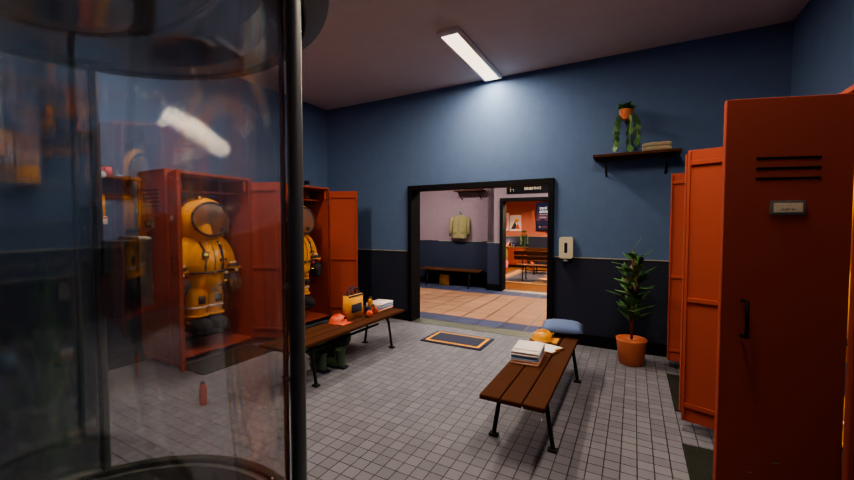
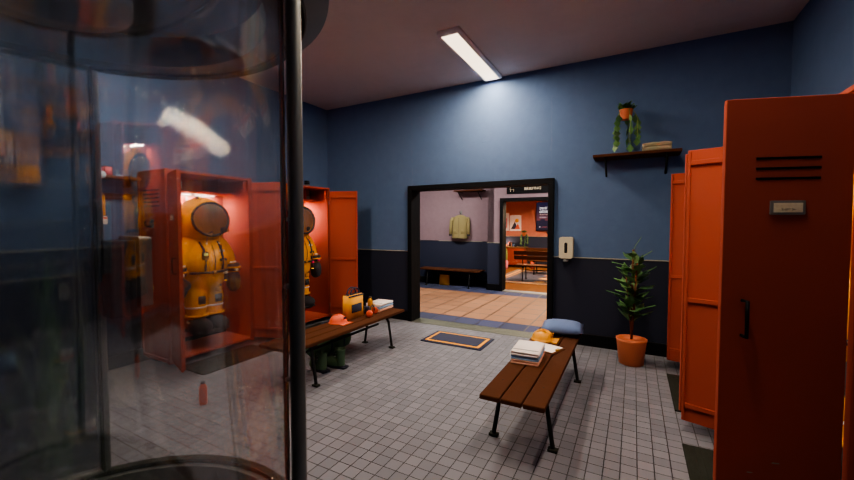
Spawn room: locker strip lights, neck cap on the hung suit, equip contract
Claude-Session: https://claude.ai/code/session_017ZYc5YVsgaxmMpnAsLGzAo

diff --git a/sections/spawn-room/blender/add_hero_suits.py b/sections/spawn-room/blender/add_hero_suits.py
@@ -31,6 +31,8 @@ OUT = sys.argv[sys.argv.index("--") + 1] if "--" in sys.argv else None
 ZO = 0.01                          # world z of each locker origin
 Y_BACK = 0.275                     # pack back plate sits just in front of the back panel (local y)
 ROOF = 1.985                       # highest point of the suit, under the rail / upper shelf
+STRIP_Y = 0.19                      # behind the hood so the visor does not mirror the strip
+LOCKER_LIGHT_W = float(os.environ.get("LOCKER_LIGHT_W", "40"))
 PLAYER_ACCENT = {1: "#3C7DDB", 2: "#4CAF50", 3: "#D6407F", 4: "#E8E2D0"}
 scene = bpy.context.scene
 COLS = [c for c in (bpy.data.collections.get("MODULE_spawn-room"), bpy.data.collections.get("PPE_STATIONS")) if c]
@@ -44,7 +46,7 @@ def kill(obj):
 
 
 def clear_old(n):
-    names = [o.name for o in bpy.data.objects if o.name.startswith(("PPE_0%d_suit" % n, "PPE_0%d_helmet" % n, "WORKER_0%d" % n))]
+    names = [o.name for o in bpy.data.objects if o.name.startswith(("PPE_0%d_suit" % n, "PPE_0%d_helmet" % n, "WORKER_0%d" % n, "PPE_0%d_locker_light" % n))]
     for pat in ("BELONG_0%d_jacket" % n, "BELONG_0%d_hanger_" % n, "BELONG_0%d_fold_" % n, "BELONG_0%d_bag" % n,
                 "BELONG_0%d_mid_shelf" % n, "PPE_0%d_work_boot" % n):
         names += [o.name for o in bpy.data.objects
@@ -97,6 +99,30 @@ def box_mesh(name, c, s, parent):
     return o
 
 
+def cap_neck(root):
+    """The skin is gone, so the suit body's neck stub shows through the empty visor: cut it and close the opening with a
+    dark inner cap (a seal ring seen from outside, a dark empty collar through the visor)."""
+    body = next(o for o in root.children_recursive if o.name.startswith("SUIT_BODY"))
+    dark = bpy.data.materials.get("COZY_#30323C_85_0_0")
+    bm = bmesh.new()
+    bm.from_mesh(body.data)
+    cut = [f for f in bm.faces if min(v.co.z for v in f.verts) > 1.20]
+    bmesh.ops.delete(bm, geom=cut, context="FACES")
+    for v in [v for v in bm.verts if not v.link_faces]:
+        bm.verts.remove(v)
+    edges = [e for e in bm.edges if e.is_boundary and min(v.co.z for v in e.verts) > 1.0]
+    new = bmesh.ops.triangle_fill(bm, edges=edges, use_beauty=True)["geom"]
+    if dark is not None:
+        body.data.materials.append(dark)
+        idx = len(body.data.materials) - 1
+        for f in [g for g in new if isinstance(g, bmesh.types.BMFace)]:
+            f.material_index = idx
+    bm.to_mesh(body.data)
+    bm.free()
+    for p in body.data.polygons:
+        p.use_smooth = True
+
+
 # remove the earlier hand-modelled suit pass (and its materials once unused)
 for n in (1, 2, 3, 4):
     clear_old(n)
@@ -119,6 +145,7 @@ for n in (1, 2, 3, 4):
         if (o.name.startswith(("WORKER_0%d_BODY_" % n, "WORKER_0%d_HEAD" % n)) and not o.name.endswith("_HEAD_PIVOT")) \
                 or o.name.startswith("FACE_"):
             bpy.data.objects.remove(o, do_unlink=True)
+    cap_neck(root)
     zmin, zmax = world_zrange(root)
 
     # asset root carrying the support registration
@@ -156,6 +183,9 @@ for n in (1, 2, 3, 4):
         e.location = (ax, 0.15, h2.z + 0.0009)
         e["cs_support_anchor"] = True
         link_cols(e)
+    asset["asset_role"] = "equippable_suit"
+    asset["cs_equip_station"] = n                  # player/station i; equipping hides this asset until it is returned
+    asset["cs_hide_on_equip"] = True
     asset["cs_support_target"] = ro.name
     asset["cs_support_direction"] = "WORLD_-Z"
     for cname in ("MODULE_spawn-room", "PPE_STATIONS", "CS_SUPPORT_REQUIRED", "CS_FLOOR_DRESSING"):
@@ -164,6 +194,47 @@ for n in (1, 2, 3, 4):
             c.objects.link(asset)
     # the working copies were built in the scene root: keep them only in the room collections
     for o in [asset, root] + list(root.children_recursive) + list(asset.children_recursive):
+        if o.name in scene.collection.objects:
+            scene.collection.objects.unlink(o)
+
+    # ---- interior strip light under the upper shelf (visible fixture + baked light), lights the suit and the bay
+    lroot = bpy.data.objects.new("PPE_0%d_locker_light" % n, None)
+    lroot.empty_display_size = 0.04
+    lroot.parent = P
+    lroot.matrix_parent_inverse = Matrix.Identity(4)
+    shelf, shelf_obj = cast(P, (-0.25, STRIP_Y, 1.9 - ZO), (0, 0, 1), 0.5)
+    sz = shelf.z + ZO                                   # world z of the shelf underside
+    strip = box_mesh("PPE_0%d_locker_light_strip" % n, (0.0, STRIP_Y, sz - 0.006 - ZO), (0.70, 0.035, 0.012), lroot)
+    strip.data.materials.clear()
+    strip.data.materials.append(bpy.data.materials["COZY_white_55_10_0"])
+    for i, ax in enumerate((-0.25, 0.25)):
+        e = bpy.data.objects.new("PPE_0%d_locker_light_contact_%02d" % (n, i), None)
+        e.empty_display_size = 0.01
+        e.parent = lroot
+        e.matrix_parent_inverse = Matrix.Identity(4)
+        e.location = (ax, STRIP_Y, sz - ZO - 0.0009)
+        e["cs_support_anchor"] = True
+        link_cols(e)
+    ld = bpy.data.lights.new("LOCKER_light_PPE_0%d_area" % n, "AREA")
+    ld.shape = "RECTANGLE"
+    ld.size, ld.size_y = 0.70, 0.12
+    ld.energy = LOCKER_LIGHT_W
+    ld.color = (1.0, 0.88, 0.72)
+    lo = bpy.data.objects.new("LOCKER_light_PPE_0%d_area" % n, ld)
+    lo.parent = lroot
+    lo.matrix_parent_inverse = Matrix.Identity(4)
+    lo.location = (0.0, STRIP_Y, sz - 0.014 - ZO)
+    lo["cs_rt_role"] = "baked_plus_emissive_fixture"
+    lo["cs_rt_group"] = "locker_power"
+    lo["cs_rt_shadow"] = False
+    link_cols(lo)
+    lroot["cs_support_target"] = shelf_obj.name
+    lroot["cs_support_direction"] = "WORLD_+Z"
+    for cname in ("MODULE_spawn-room", "PPE_STATIONS", "CS_SUPPORT_REQUIRED", "CS_CEILING_DRESSING"):
+        c = bpy.data.collections.get(cname)
+        if c and lroot.name not in c.objects:
+            c.objects.link(lroot)
+    for o in [lroot] + list(lroot.children_recursive):
         if o.name in scene.collection.objects:
             scene.collection.objects.unlink(o)
     P["contents"] = "One hanging crew hazmat suit (the player's own suit, empty) on the hanger rail, personal items on the upper shelf"

diff --git a/sections/spawn-room/production/optimise/README.md b/sections/spawn-room/production/optimise/README.md
@@ -16,11 +16,11 @@ Regenerate with Blender 5.2 (the module is a 5.2 file; the `bpy` wheel on PyPI i
 
 | | module.blend | module_optimised.blend |
 |---|---:|---:|
-| Render-visible geometry objects | 1,550 | 745 |
-| Triangles | 350,718 | 350,718 |
-| Draw-call estimate (objects x material slots, before any engine batching) | 1,894 | 748 |
+| Render-visible geometry objects | 1,554 | 751 |
+| Triangles | 350,518 | 350,518 |
+| Draw-call estimate (objects x material slots, before any engine batching) | 1,902 | 754 |
 | Materials in use | 204 | 31 (30 visible plus one untouched copy for animated labels; the 24-material spawn-room cap comes from the per-room budget in PR #59, branch `claude/eloquent-rubin-5y6lnu`, `design/MATERIAL_BUDGETS.md`, where the owner's approval of 2026-10-01 is recorded; that document is not on `main` yet) |
-| Lights | 14 | 14 (unchanged; roles tagged) |
+| Lights | 14 | 18 (14 original unchanged, plus 4 baked locker strip lights; roles tagged) |
 
 Numbers reflect the module after the hero-suit pass (`../../blender/add_hero_suits.py`: the crew worker's own hazmat suit hung in each of the four PPE lockers).
 
@@ -31,7 +31,7 @@ Every number below (objects, joins, conversions, draw calls, materials) comes fr
 
 1. 315 curve/text objects become meshes (evaluated, with name, parent, collections, properties and children kept). Curve/text objects that are animated, driven, in NLA, constrained or have an animated data block or shape keys
    (for example the POD_state_* labels) are NOT converted, because a mesh copy would freeze them;
-   modifiers are baked on 755 objects (the parts that get merged or touched).
+   modifiers are baked on 753 objects (the parts that get merged or touched).
 2. Procedural patterns that depend on the object (Generated / Object coordinates, 40 materials) are frozen into per-vertex
    attributes `CS_GEN` / `CS_OBJ`, on every mesh including hidden ones, and those materials read the attributes, so joining
    parts cannot change a pattern. Curve/text objects that stay curves cannot carry attributes, so they keep an
@@ -44,7 +44,7 @@ Every number below (objects, joins, conversions, draw calls, materials) comes fr
    same, so the shading is the same (the structural key includes the colour-ramp interpolation and colour mode, so ramps that differ never share a family): a 2-stop LINEAR/EASE ramp becomes a clamped Map Range (smoothstep for EASE) plus a Mix.
    Read-back of every attribute is checked at build time. 13 families replace 40 materials; members are listed in text block
    `OPT_FAMILIES`. Materials with different graphs are left alone.
-4. Parts of the same asset that share material and object flags are joined (957 objects into 152); shell parts outside any
+4. Parts of the same asset that share material and object flags are joined (955 objects into 152); shell parts outside any
    asset are joined per collection, material and 5 m cell. Left exactly as they were: every object that is animated, has
    children, carries its own properties, is in a support-checked collection, is named by any `cs_support_target`,
    looks interactive (door, hinge, hatch, lever, button, handle, switch...) or belongs to an asset with
@@ -93,5 +93,5 @@ Every number below (objects, joins, conversions, draw calls, materials) comes fr
   amber signal and the three floors), so merging them would change the look and needs owner approval. Texture memory (12 x 2K images, about 50 MP, including 4 displacement maps)
   is not reduced.
 - Door, hatch and interaction assets, support-contact targets and anything with its own properties are intentionally
-  left unmerged, which is why the count is 748 and not lower.
+  left unmerged, which is why the count is 754 and not lower.
 - The merged meshes are an export-oriented derivative: authoring edits belong in `module.blend`.

diff --git a/sections/spawn-room/production/final-pass/REPORT.md b/sections/spawn-room/production/final-pass/REPORT.md
@@ -32,7 +32,9 @@ Not run: RUBRIC cycles 3+ (the rubric asks for at least 4 review cycles and a co
 The owner confirmed four lockers, one per player. A first hand-modelled suit was rejected and deleted; the suit now hung is the crew worker's own hazmat suit, built by the same code the player character wears (`character_worker.build_worker` + `character_suit.build_hazmat` + `equip`, A-pose rest, the version on `main` and unchanged on `claude/character-rig`, which only adds the rig).
 - `../../blender/add_hero_suits.py` (idempotent) builds one suit per locker `PPE_01..04` without the wearer (skin, head and face removed), facing the open front, pack against the back panel, hung by a strap from the rescue handle to a hook over the hanger rail. Per-player accent colour: blue, green, magenta, cream. Suit scale is the player's (about 1.7 m including the hood antenna).
 - It removes the personal-belongings dressing the suit replaces (jacket, wooden hangers, mid shelf and contents, floor work boots) and the earlier hand-modelled suit, helmet and cradle. The locker `contents` property is updated.
-- Contacts: hooks rest on the hanger rail; `validate_contacts.py` **PASS 200/200** (224 before; the difference is the removed belongings and the removed helmet cradles). `check_layout.py` still 6 PASS.
-- `module_optimised.blend` regenerated: 745 objects, 748 draw calls, 31 materials, 350,718 triangles (about 28,000 more than the suit-less room, 7,000 per suit: the cost of using the player's own mesh); `compare_signatures.py` before/after PASS.
+- Contacts: hooks rest on the hanger rail; `validate_contacts.py` **PASS 204/204** (224 before; the difference is the removed belongings, minus the added hooks and strip lights). `check_layout.py` still 6 PASS.
+- `module_optimised.blend` regenerated: 751 objects, 754 draw calls, 31 materials, 350,518 triangles (about 28,000 more than the suit-less room, 7,000 per suit: the cost of using the player's own mesh); `compare_signatures.py` before/after PASS.
 - Renders with suits: `renders_with_suits/` (Spawn, LockerDoor, LockerReverse, Hero_A, 480p, 16 spp).
-- **Not re-scored.** The critic scores above predate the suits. Known: a neck stub of the suit body is visible through the empty visor. Open items from the list above remain: material wear, lighting falloff, LockerReverse white blob, Walk_C bench uprights, plants and signage.
+- **Lighting and suit fixes (owner request):** each locker has a baked strip light under its upper shelf (visible fixture, 40 W area, tagged `baked_plus_emissive_fixture` / `locker_power`, not dynamic; light budget unchanged at 4 dynamic, 2 shadow casters), set behind the hood so the visor does not mirror it. The neck stub is cut and capped with a dark inner collar. Hall lighting and the other rooms were **not** changed.
+- **Equip:** the suit asset carries `cs_equip_station` and `cs_hide_on_equip`; the toggle itself is runtime logic and is not built or tested. See `SUIT_EQUIP.md`.
+- **Not re-scored.** The critic scores above predate the suits. Open items from the list above remain: material wear, lighting falloff, LockerReverse white blob, Walk_C bench uprights, plants and signage.

diff --git a/sections/spawn-room/production/final-pass/SUIT_EQUIP.md b/sections/spawn-room/production/final-pass/SUIT_EQUIP.md
@@ -1,0 +1,15 @@
+# Suit equip contract (spawn room lockers)
+
+Each locker `PPE_0n` holds one hanging suit, asset root `PPE_0n_suit` (empty), one per player/station `n = 1..4`.
+
+Authored properties on the asset root:
+- `asset_role = "equippable_suit"`
+- `cs_equip_station = n`
+- `cs_hide_on_equip = True`
+
+Intended runtime behaviour (owner request): when the player for station `n` equips the suit, the whole `PPE_0n_suit`
+hierarchy (suit, hook, strap and the locker strip light is separate and stays on) is hidden or deactivated, so the locker
+reads empty; the suit is the same asset the player character wears (`character_suit.build_hazmat`).
+
+Not implemented here: the toggle itself is runtime logic and was not built or tested (no Unity project in this repo
+state). Open owner decision: whether the suit reappears if the player returns or removes it.
